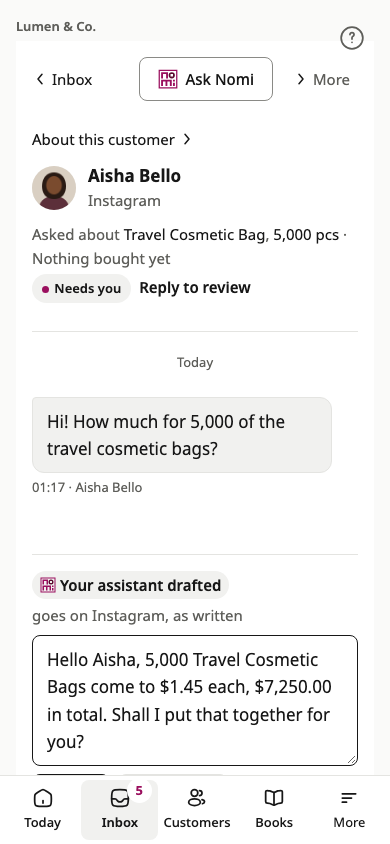
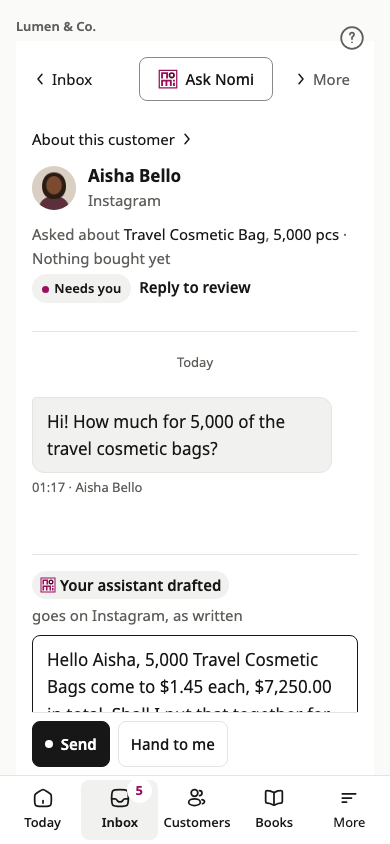
UI correction F12: on a phone Send and Hand to me rest above the tab bar
t1r's decision 2. While any part of the reply to act on is on the screen, its two acts stick just above the
bar (over the foot of the reply's box); scrolled to, they are in their place. The page scrolls as before.
Measured in the browser (emulation): 390x844 — top of page Send 721-767, at #latest 597-643, bar at 775;
never reaching into the bar at any of 44 scroll positions. 320x568 — at #latest Send 445-491, bar at 499; at
the top of the page the reply is still below the screen (Send not shown, not under the bar); while scrolling,
for about 120 px the reply's head emerges from behind the bar as all content does, and Send with it.

Changed region(s): [[0.0615, 0.8318, 0.8308, 0.9242], [0.8923, 0.8934, 0.9231, 0.9242]]

diff --git a/src/api/web/conversationStyle.ts b/src/api/web/conversationStyle.ts
@@ -19,6 +19,14 @@ export const CONVERSATION_CSS = `
   .conversation-workspace .conv-top .dhead > .live { order:4; flex-basis:100%; }
   .conversation-workspace .conv-top .conversation-actions > .file-door { order:5; flex-basis:100%; margin:0; }
 }
+/* A phone (t1r's decision 2, 2026-11-13): Send and Hand to me are never under the tab bar. While any part of the reply
+   to act on is on the screen, its two acts rest just above the bar (69 px: the bar's 60, its 4 + 4 of padding, its
+   line; plus the phone's own inset), on the surface, over the foot of the reply's box; scrolled to, they are in their
+   place under it. The page scrolls as before, so the thread stays one swipe away. */
+@media (max-width:720px) {
+  .conversation-workspace .conv-acts .approve .acts { position:sticky; inset-block-end:calc(69px + env(safe-area-inset-bottom, 0px)); z-index:2;
+    padding-block:var(--space-8); background:var(--color-surface); border-block-start:1px solid var(--color-border); }
+}
 /* A desk: the page's help door sits in the corner; the row keeps clear of it. */
 @media (min-width:1100px) { .conversation-workspace .conv-top .dhead { padding-inline-end:var(--space-48); } }
 .conversation-workspace .conversation-actions { display:flex; flex-wrap:wrap; align-items:center; gap:var(--space-8) var(--space-12); margin:0; margin-inline-start:auto; }
